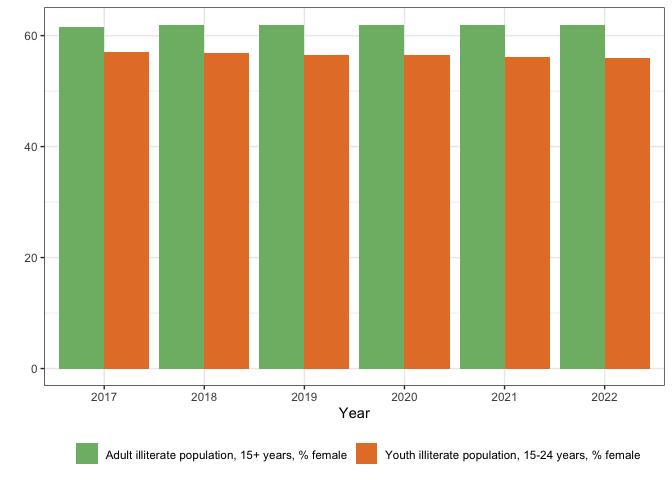
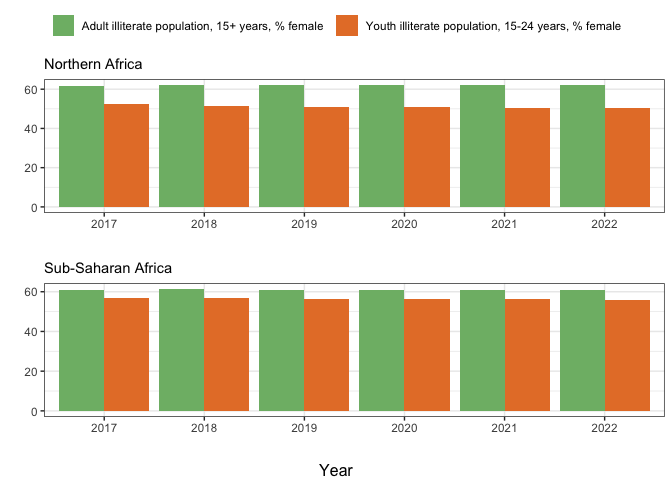
Update the illiterate chunk

diff --git a/README.md b/README.md
@@ -31,7 +31,8 @@ Source: <https://dataportal.opendataforafrica.org/>
 
 UNESCO provides data on adult (youth) illiteracy rates for females aged
 15+ (15-24). This data reflects the percentage of females within this
-age group who are unable to read and write.
+age group who are unable to read and write. The graph below provides the
+illeterate
 
 <br>
 
